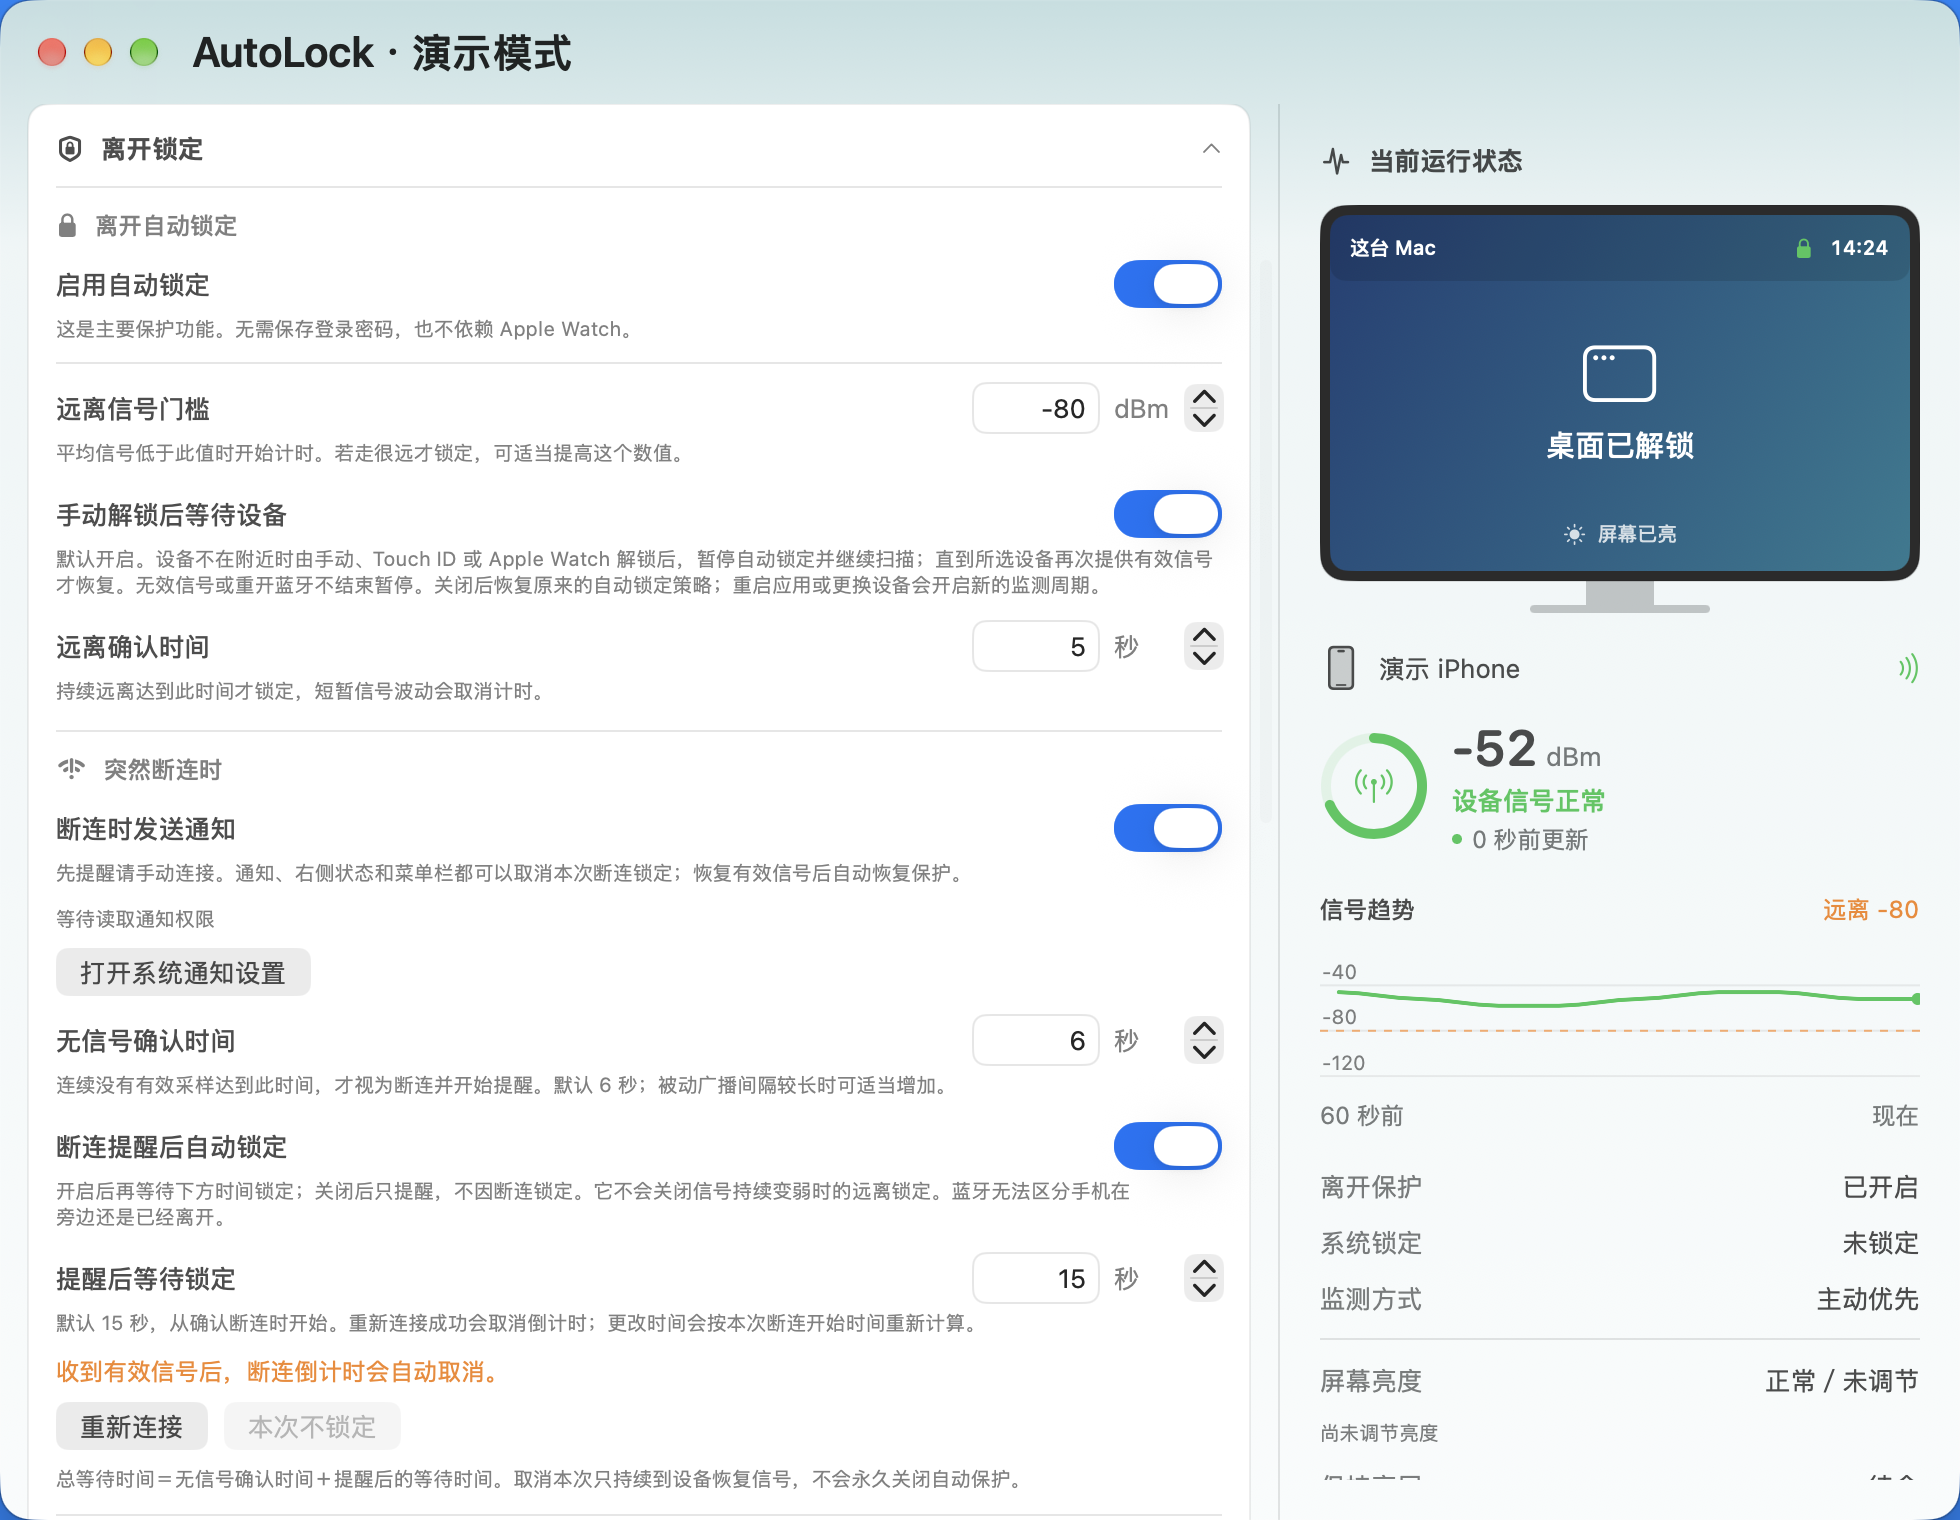
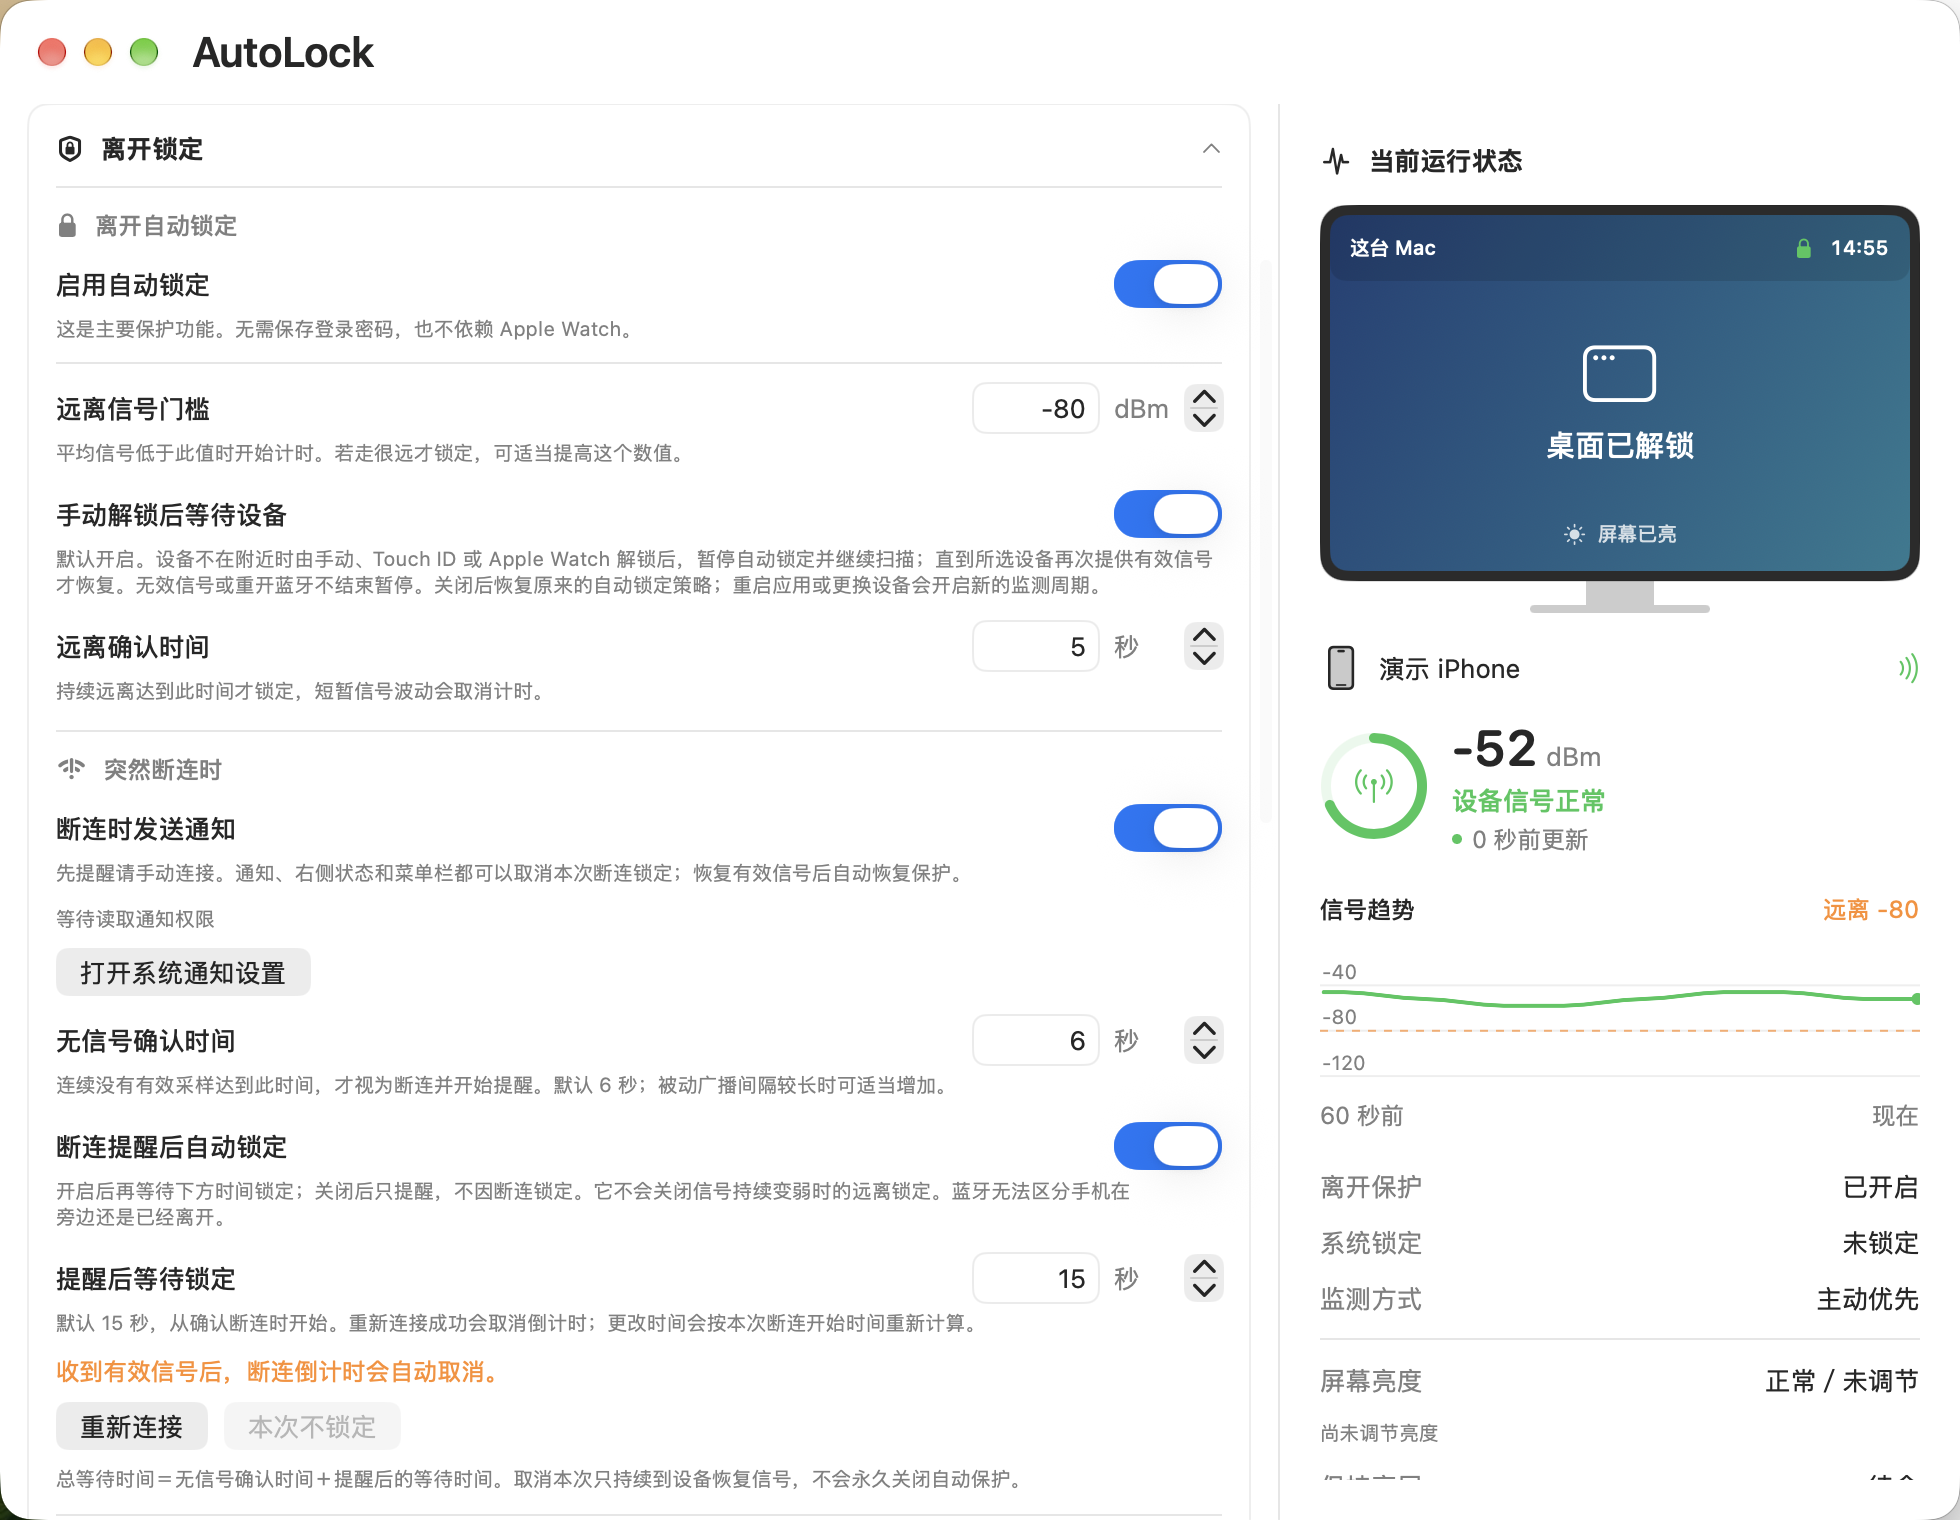
简化顶部为原生窗口按钮与 AutoLock，移除透明背景对照

diff --git a/AutoLock/SettingsWindow.swift b/AutoLock/SettingsWindow.swift
@@ -79,11 +79,11 @@ extension AppDelegate {
         if settingsWindow == nil {
             let window = NSWindow(contentRect: NSRect(x: 0, y: 0, width: 980, height: 760),
                                   styleMask: [.titled, .closable, .miniaturizable, .resizable, .fullSizeContentView], backing: .buffered, defer: false)
-            window.title = isLocalTest ? "AutoLock · 本地测试版" : "AutoLock"
+            window.title = "AutoLock"
             window.titleVisibility = .hidden
             window.titlebarAppearsTransparent = true
-            window.isOpaque = false
-            window.backgroundColor = .clear
+            window.isOpaque = true
+            window.backgroundColor = .windowBackgroundColor
             window.toolbarStyle = .unified
             let toolbar = NSToolbar(identifier: "AutoLockToolbar")
             toolbar.delegate = self
@@ -97,21 +97,7 @@ extension AppDelegate {
             window.delegate = self
             window.standardWindowButton(.miniaturizeButton)?.target = self
             window.standardWindowButton(.miniaturizeButton)?.action = #selector(minimizeSettings)
-            // ponytail: 原生窗口后方混合直接透出桌面，无需截图权限或自制模糊算法。
-            let glass = NSVisualEffectView()
-            glass.material = .sidebar
-            glass.blendingMode = .behindWindow
-            glass.state = .active
-            let content = NSHostingView(rootView: SettingsView(app: self))
-            content.translatesAutoresizingMaskIntoConstraints = false
-            glass.addSubview(content)
-            NSLayoutConstraint.activate([
-                content.leadingAnchor.constraint(equalTo: glass.leadingAnchor),
-                content.trailingAnchor.constraint(equalTo: glass.trailingAnchor),
-                content.topAnchor.constraint(equalTo: glass.topAnchor),
-                content.bottomAnchor.constraint(equalTo: glass.bottomAnchor)
-            ])
-            window.contentView = glass
+            window.contentView = NSHostingView(rootView: SettingsView(app: self))
             if !isPreview { window.setFrameAutosaveName("MacAutolockSettings") }
             window.center()
             settingsWindow = window
@@ -137,7 +123,7 @@ extension AppDelegate {
     func toolbar(_ toolbar: NSToolbar, itemForItemIdentifier identifier: NSToolbarItem.Identifier, willBeInsertedIntoToolbar flag: Bool) -> NSToolbarItem? {
         guard identifier.rawValue == "AutoLockTitle" else { return nil }
         let item = NSToolbarItem(itemIdentifier: identifier)
-        let title = NSTextField(labelWithString: isPreview ? "AutoLock · 演示模式" : (isLocalTest ? "AutoLock · 本地测试版" : "AutoLock"))
+        let title = NSTextField(labelWithString: "AutoLock")
         title.font = .systemFont(ofSize: 21, weight: .semibold)
         item.view = title
         item.label = "AutoLock"
@@ -587,7 +573,7 @@ extension AppDelegate {
         check(signalLossCategory.actions.first?.options.contains(.foreground) == false, "通知取消操作不必打开应用窗口")
         check(signalLossCategory.actions.last?.identifier == "reconnect-device", "通知也提供重新连接入口")
         check(settingsWindow?.styleMask.contains(.fullSizeContentView) == true && settingsWindow?.titlebarAppearsTransparent == true, "窗口顶部必须与内容融合")
-        check(settingsWindow?.toolbar?.items.contains { $0.itemIdentifier.rawValue == "AutoLockTitle" } == true, "统一工具栏显示 AutoLock")
+        check((settingsWindow?.toolbar?.items.first?.view as? NSTextField)?.stringValue == "AutoLock", "窗口按钮旁只显示 AutoLock")
         check([NSWindow.ButtonType.closeButton, .miniaturizeButton, .zoomButton].allSatisfy { settingsWindow?.standardWindowButton($0) != nil }, "必须保留三个原生窗口按钮")
         setAutomaticLock(true)
         toggleQuickSetting(quickMenuItems["automaticLock"]!)
@@ -612,8 +598,8 @@ extension AppDelegate {
         check(signalHistory.last?.rssi == nil, "无效信号在曲线中保留为断点")
         for _ in 0..<300 { recordSignalSample(-55, at: sampleTime) }
         check(signalHistory.count == 240, "广播密集时曲线样本也必须有界")
-        check(settingsWindow?.isOpaque == false && settingsWindow?.backgroundColor == .clear, "窗口底层必须透明，不能遮住桌面")
-        check((settingsWindow?.contentView as? NSVisualEffectView)?.blendingMode == .behindWindow, "毛玻璃必须混合窗口后方内容")
+        check(settingsWindow?.isOpaque == true && settingsWindow?.backgroundColor == .windowBackgroundColor, "窗口使用不透明的系统背景色")
+        check(settingsWindow?.contentView is NSHostingView<SettingsView>, "设置直接承载在窗口中，无毛玻璃包装层")
         screenLocked = false; displaySleep = false; systemSleep = false; inScreensaver = false
         check(screenPresentation.title == "桌面已解锁" && screenPresentation.lit, "桌面状态必须来自系统状态")
         lockRequestAt = Date()
@@ -683,15 +669,15 @@ extension AppDelegate {
         refreshStatus()
     }
 
-    private func capturePreviewWindow(to path: URL, composited: Bool) -> [CGFloat]? {
+    private func capturePreviewWindow(to path: URL, composited: Bool) {
         precondition(isPreview)
-        guard let window = settingsWindow else { return nil }
+        guard let window = settingsWindow else { return }
         if !composited {
             guard let view = window.contentView?.superview,
-                  let bitmap = view.bitmapImageRepForCachingDisplay(in: view.bounds) else { return nil }
+                  let bitmap = view.bitmapImageRepForCachingDisplay(in: view.bounds) else { return }
             view.cacheDisplay(in: view.bounds, to: bitmap)
             try? bitmap.representation(using: .png, properties: [:])?.write(to: path)
-            return nil
+            return
         }
         window.orderFrontRegardless()
         let windows = CGWindowListCopyWindowInfo(.optionOnScreenOnly, kCGNullWindowID) as? [[String: Any]]
@@ -708,9 +694,6 @@ extension AppDelegate {
         do { try capture.run(); capture.waitUntilExit() }
         catch { preconditionFailure("窗口合成截图失败：\(error)") }
         precondition(capture.terminationStatus == 0, "窗口合成截图失败，请确认屏幕已解锁和截图权限")
-        guard let data = try? Data(contentsOf: path), let bitmap = NSBitmapImageRep(data: data),
-              let color = bitmap.colorAt(x: bitmap.pixelsWide * 3 / 4, y: 24)?.usingColorSpace(.deviceRGB) else { return nil }
-        return [color.redComponent, color.greenComponent, color.blueComponent]
     }
 
     func configurePreviewCapture() {
@@ -745,16 +728,10 @@ extension AppDelegate {
             // 演示窗口靠左，避免右上角系统通知进入对外发布的截图区域。
             window.setFrameOrigin(NSPoint(x: screen.visibleFrame.minX + 20, y: window.frame.minY))
         }
-        // 可选的原生合成截图使用本应用的彩色衬底，不截取用户桌面或其他应用内容。
-        let backdrop = composited ? NSWindow(contentRect: settingsWindow!.frame.insetBy(dx: -30, dy: -30), styleMask: .borderless, backing: .buffered, defer: false) : nil
-        backdrop?.isReleasedWhenClosed = false
-        backdrop?.backgroundColor = .systemBlue
-        backdrop?.ignoresMouseEvents = true
         let checks = verifyPreviewSettings()
         if composited {
             settingsWindow?.level = .floating
             settingsWindow?.ignoresMouseEvents = true
-            backdrop?.level = .floating
         }
         let report: [String: Any] = ["设置检查通过": checks, "隔离预览": isPreview,
                                     "系统版本": ProcessInfo.processInfo.operatingSystemVersionString]
@@ -762,28 +739,14 @@ extension AppDelegate {
             try? data.write(to: directory.appendingPathComponent("预览检查.json"))
         }
         // ponytail: 复用真实设置窗口截图，演示模式隔离所有系统操作，无需维护第二套界面。
-        var glassColors: [String: [CGFloat]] = [:]
         let scenes: [(String, SettingsPage)] = [("浅色", .overview), ("深色", .overview), ("设备", .device),
-            ("离开锁定", .lock), ("靠近与解锁", .returning), ("分段亮屏", .tests), ("菜单栏外观", .appearance), ("其他设置", .extras), ("效果测试", .tests), ("运行记录", .activity), ("失联", .overview), ("已锁定", .overview), ("已关屏", .overview), ("屏保", .overview), ("透明对照", .overview), ("解锁暂停", .overview)]
-        func finishCapture() {
-            if composited {
-                let difference = zip(glassColors["浅色"] ?? [], glassColors["透明对照"] ?? []).map { abs($0 - $1) }.max() ?? 0
-                let result: [String: Any] = ["标题区域背景色差": difference, "透背景检查通过": difference > 0.05, "采样颜色": glassColors]
-                if let data = try? JSONSerialization.data(withJSONObject: result, options: [.prettyPrinted, .sortedKeys]) {
-                    try? data.write(to: directory.appendingPathComponent("透明检查.json"))
-                }
-                precondition(difference > 0.05, "切换窗口后方背景时，标题区必须有可见颜色变化")
-            }
-            backdrop?.close(); NSApp.terminate(nil)
-        }
+            ("离开锁定", .lock), ("靠近与解锁", .returning), ("分段亮屏", .tests), ("菜单栏外观", .appearance), ("其他设置", .extras), ("效果测试", .tests), ("运行记录", .activity), ("失联", .overview), ("已锁定", .overview), ("已关屏", .overview), ("屏保", .overview), ("解锁暂停", .overview)]
         func captureScene(_ offset: Int) {
-            guard offset < scenes.count else { finishCapture(); return }
+            guard offset < scenes.count else { NSApp.terminate(nil); return }
             let (name, page) = scenes[offset]
             DispatchQueue.main.asyncAfter(deadline: .now() + 0.2) {
                 self.settingsWindow?.appearance = NSAppearance(named: offset == 1 ? .darkAqua : .aqua)
-                if let backdrop = backdrop, let window = self.settingsWindow {
-                    backdrop.backgroundColor = name == "透明对照" ? .systemOrange : .systemBlue
-                    backdrop.order(.below, relativeTo: window.windowNumber)
+                if composited, let window = self.settingsWindow {
                     window.makeKeyAndOrderFront(nil)
                     NSApp.activate(ignoringOtherApps: true)
                 }
@@ -809,7 +772,7 @@ extension AppDelegate {
                 self.refreshStatus()
                 DispatchQueue.main.asyncAfter(deadline: .now() + 0.8) {
                     let path = directory.appendingPathComponent("设置窗口-\(name).png")
-                    if let color = self.capturePreviewWindow(to: path, composited: composited) { glassColors[name] = color }
+                    self.capturePreviewWindow(to: path, composited: composited)
                     if name == "靠近与解锁" {
                         let result = ["目标分组": page.rawValue, "当前分组": self.settingsPage.rawValue]
                         if let data = try? JSONSerialization.data(withJSONObject: result, options: [.prettyPrinted, .sortedKeys]) {
@@ -895,15 +858,7 @@ struct SettingsView: View {
             Divider()
             liveStatusPanel.frame(width: 300).padding(20)
         }.frame(minHeight: 620)
-            .background {
-                LinearGradient(stops: [
-                    .init(color: .clear, location: 0),
-                    .init(color: Color(nsColor: .windowBackgroundColor).opacity(0.72), location: 0.16),
-                    .init(color: Color(nsColor: .windowBackgroundColor).opacity(0.9), location: 1)
-                ], startPoint: .top, endPoint: .bottom)
-                    .ignoresSafeArea(.container, edges: .top)
-                    .allowsHitTesting(false).accessibilityHidden(true)
-            }
+            .background(Color(nsColor: .windowBackgroundColor).ignoresSafeArea(.container, edges: .top))
             .environment(\.locale, Locale(identifier: "zh_Hans_CN"))
     }
 
